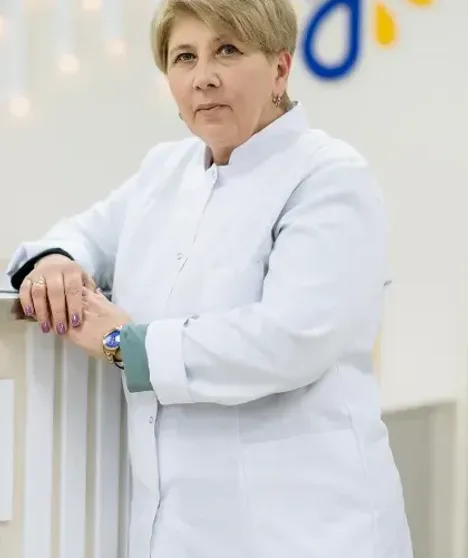
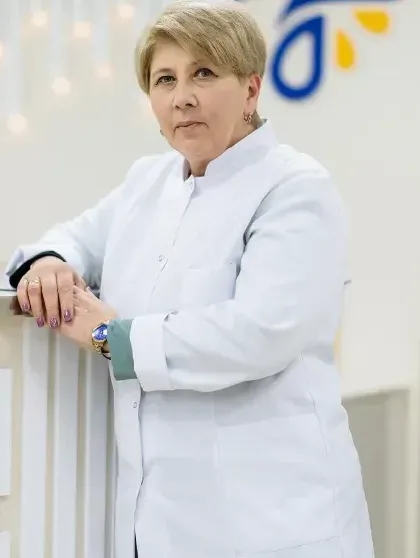
commit

diff --git a/src/components/team.jsx b/src/components/team.jsx
@@ -8,13 +8,16 @@ import '../team.css'
    person.image არის სტრიქონი მაგ. "/team2.webp" (Vite public dir import).
    ვიღებთ საბაზისო სახელს ("team2") და ვაწყობთ სწორ srcSet-ს
    იმ ზომებით, რაც resize-images.js სკრიპტმა უნდა დააგენერიროს
-   (team1-468.webp, team1-936.webp, team2-468.webp, ... და ა.შ.)
+   (team1-468.webp, team1-720.webp, team2-468.webp, ... და ა.შ.)
+   შენიშვნა: 936w აღარ გამოიყენება — ორიგინალი წყარო სურათები
+   მხოლოდ ~717-720px განიერია, ამიტომ 936w-ის გენერირება მხოლოდ
+   ხელოვნურ upscale-ს ან ორიგინალის ულუფა ასლს იძლეოდა.
 */
 function getResponsiveImage(imagePath) {
   const base = imagePath.replace(/^\//, "").replace(/\.webp$/, "");
   return {
     src: `/${base}-468.webp`,
-    srcSet: `/${base}-468.webp 468w, /${base}-936.webp 936w`,
+    srcSet: `/${base}-468.webp 468w, /${base}-720.webp 720w`,
   };
 }
 
